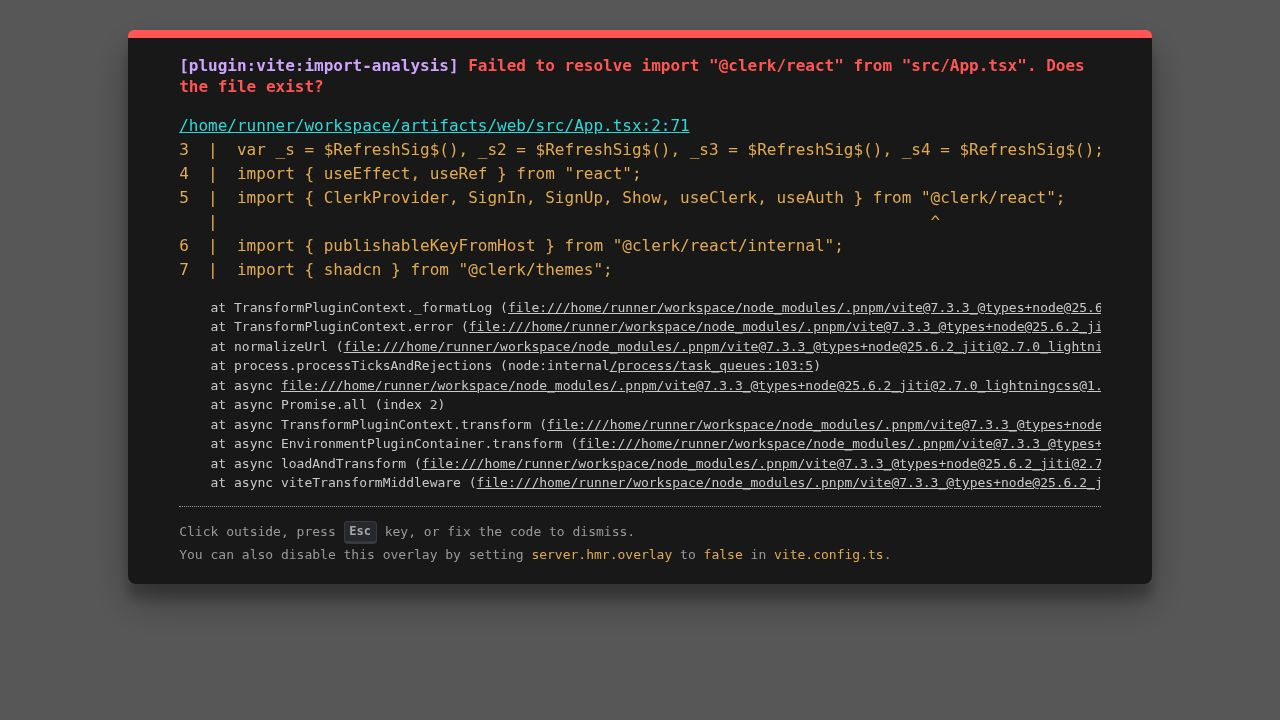
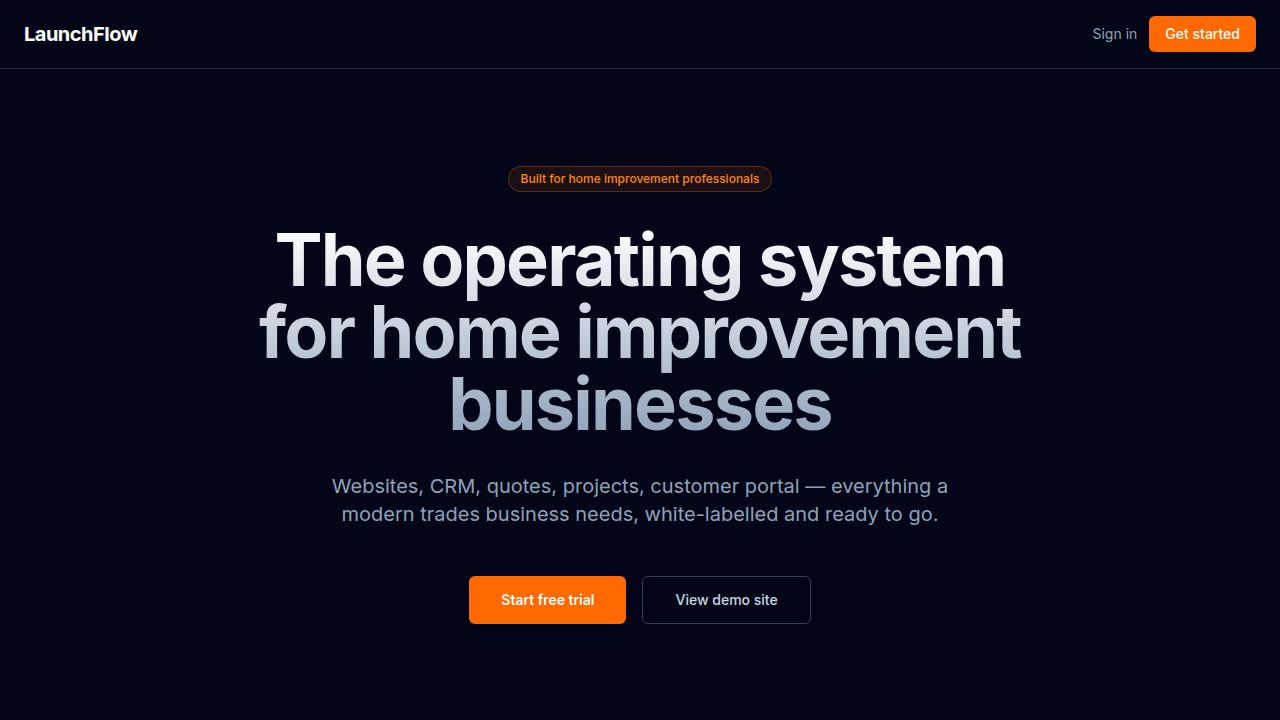
Update website to target London and Essex locations
Corrects hardcoded location text in the frontend and updates tenant data to reflect London and Essex targeting.

Replit-Commit-Author: Agent
Replit-Commit-Session-Id: 58650110-b3b0-49e4-b456-fe4a0d27b723
Replit-Commit-Checkpoint-Type: full_checkpoint
Replit-Commit-Event-Id: 08093c05-fedc-4b51-bee8-817f130d2b97
Replit-Commit-Screenshot-Url: https://storage.googleapis.com/screenshot-production-us-central1/daeff61a-d59d-4687-8632-c7f5c6fb12e7/58650110-b3b0-49e4-b456-fe4a0d27b723/ArIr7LG
Replit-Helium-Checkpoint-Created: true

diff --git a/artifacts/web/src/zones/public/PublicSiteApp.tsx b/artifacts/web/src/zones/public/PublicSiteApp.tsx
@@ -344,7 +344,7 @@ function AreasPage({ tenantSlug }: { tenantSlug: string }) {
       <SiteNav tenant={tenant} settings={settings} tenantSlug={tenantSlug}/>
       <div className="bg-slate-900 text-white py-16 px-4 sm:px-6 text-center">
         <h1 className="text-4xl font-bold">Areas We Cover</h1>
-        <p className="text-slate-300 mt-3">Serving the North West of England</p>
+        <p className="text-slate-300 mt-3">{tenant?.description || 'Serving homes and businesses in your area'}</p>
       </div>
       <section className="py-16 max-w-7xl mx-auto px-4 sm:px-6">
         {isLoading ? <div className="text-center py-12 text-slate-400">Loading...</div> : (